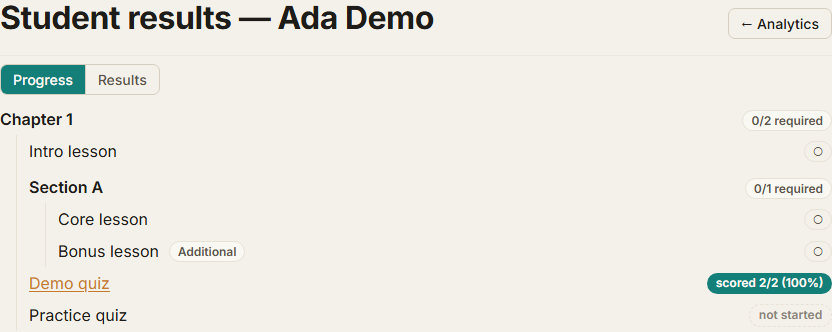
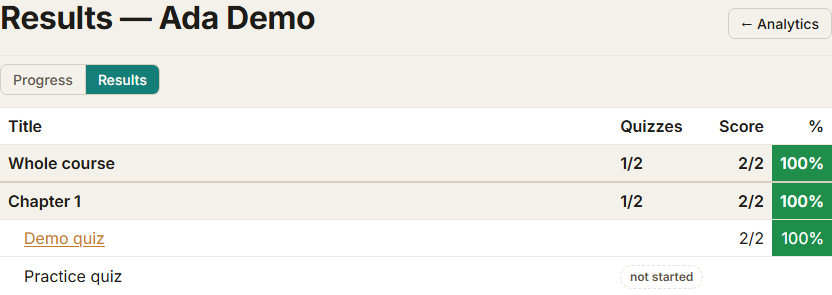
docs(help): results and progress, the table's sums; Results-mode captures
Claude-Session: https://claude.ai/code/session_01H8rDB1pzsmrm9bdn8PwGw2

diff --git a/tests/capture_help_screenshots.py b/tests/capture_help_screenshots.py
@@ -74,10 +74,13 @@ def _u(name, **kwargs):
         return url
     if name == "manage_analytics_student":
         pk = User.objects.get(username=kwargs["username"]).pk
-        return reverse(
+        url = reverse(
             "courses:manage_analytics_student",
             kwargs={"slug": "demo-course", "student_pk": pk},
         )
+        if kwargs.get("mode") == "results":
+            url += "?mode=results"
+        return url
     if name == "manage_review_queue":
         return reverse("courses:manage_review_queue", kwargs={"slug": "demo-course"})
     if name == "manage_review_submission":
@@ -181,8 +184,8 @@ SHOTS = [
     (
         "drill-down",
         "demo_teacher",
-        ("manage_analytics_student", {"username": "demo_s1"}),
-        ".breakdown__tree",
+        ("manage_analytics_student", {"username": "demo_s1", "mode": "results"}),
+        ".results-table",
         "section.manage",
     ),
     (

diff --git a/tests/capture_title_math_screenshots.py b/tests/capture_title_math_screenshots.py
@@ -631,6 +631,18 @@ def test_capture(browser, live_server):
             page.wait_for_selector(".breakdown-unit__title .katex")
             shoot(f"title-math-11-{theme}", page.locator(".breakdown__tree"))
 
+            # Row 11b: the same page in Results mode -- titles in table <th> cells.
+            page.goto(
+                _url(
+                    "courses:manage_analytics_student",
+                    slug=slug,
+                    student_pk=student.pk,
+                )
+                + "?mode=results"
+            )
+            page.wait_for_selector(".results-table__title .katex")
+            shoot(f"title-math-11b-{theme}", page.locator(".results-table-wrap"))
+
             # Row 13b: h1.review-topbar__title on the review-submission page.
             sub = QuizSubmission.objects.get(unit=nodes["quiz_b"], student=student)
             page.goto(

diff --git a/courses/geogebra.py b/courses/geogebra.py
@@ -469,7 +469,7 @@ def fetch_geogebra_dimensions(material_id):
         try:
             exc.close()
         # S110 (try-except-pass) IS enabled and DOES fire here; BLE001 is not.
-        # Precedent for S110 on a handler line: tests/capture_help_screenshots.py:460.
+        # S110 precedent: capture_help_screenshots.py::test_capture_help_screenshots.
         except Exception:  # noqa: BLE001, S110 - closing must never mask the original
             pass
         return _fail(f"HTTP {exc.code}")

diff --git a/docs/help/teacher/drill-down.pl.md b/docs/help/teacher/drill-down.pl.md
@@ -8,7 +8,7 @@ kursie — albo z widoku **Moje grupy i kolekcje**, gdzie każda karta grupy ma
 odnośnik **Analityka** ograniczony do tej grupy. Karta kolekcji ma go
 również, jeśli możesz przeglądać kurs tej kolekcji.
 
-![Wyniki ucznia](static:core/img/help/drill-down.pl.png)
+![Wyniki quizów w kursie](static:core/img/help/drill-down.pl.png)
 
 ## Rozwijanie kolumny
 
@@ -49,17 +49,27 @@ Twoje wybory rozwinięcia i podzbioru podróżują z tobą: przenoszą się prze
 przełącznik Postęp ↔ Wyniki oraz odnośnik eksportu, więc nigdy nie tracisz
 swojego miejsca przy zmianie tego, co mierzy macierz.
 
-## Wyniki ucznia
+## Wyniki i postęp
 
-Kliknij imię i nazwisko ucznia, aby otworzyć stronę jego wyników w bieżącym
-kursie. Otwiera się w tym samym widoku, z którego przyszedłeś w macierzy, a
-przełącznik **Postęp / Wyniki** pod nagłówkiem zmienia go bez powrotu:
+Kliknij imię i nazwisko ucznia, aby otworzyć jego stronę w bieżącym kursie.
+Otwiera się w tym samym widoku, z którego przyszedłeś w macierzy, a nagłówek
+nazywa ten widok i ucznia. Przełącznik **Postęp / Wyniki** pod nagłówkiem
+zmienia widok bez powrotu:
 
 - **Postęp** pokazuje wszystkie lekcje i quizy. Ukończona lekcja ma ✓,
   nieukończona puste ○, a lekcja nieobowiązkowa jest oznaczona jako
-  **Dodatkowa**. Nagłówki rozdziałów pokazują, ile obowiązkowych lekcji ukończono.
-- **Wyniki** pokazuje tylko quizy — z ich stanem lub wynikiem — i rozdziały,
-  które je zawierają.
+  **Dodatkowa**. Nagłówki rozdziałów liczą ukończone lekcje obowiązkowe, np.
+  **lekcje: 1/2**.
+- **Wyniki** to tabela quizów oraz części, rozdziałów i sekcji, które je
+  zawierają. Quiz z wynikiem pokazuje punkty i procent; każdy inny quiz pokazuje
+  swój stan, a quiz czekający na sprawdzenie ma odnośnik do strony sprawdzania.
+  Każdy nagłówek, pod którym jest więcej niż jeden quiz, pokazuje w swoim
+  wierszu ułamek quizów, np. **1/3**, sumę punktów i procent, a **Cały kurs** na
+  górze robi to samo dla całego kursu. Ułamek to liczba quizów, których wynik
+  wliczono do sumy, spośród wszystkich quizów w sekcji, więc quiz czekający na
+  sprawdzenie nie jest jeszcze wliczony. Sumy i kolory procentów pochodzą z
+  macierzy analitycznej, więc wiersz nagłówka zgadza się z komórką tej sekcji w
+  macierzy wyników.
 
 Odnośnik **← Analityka** przywraca dokładnie ten zakres, widok, rozwinięte kolumny i
 wybór uczniów, z którego przyszedłeś.
@@ -72,8 +82,9 @@ klucz tam, gdzie odpowiedź była błędna, punkty i liczbę prób. Pytanie
 wielokrotnego wyboru pokazuje **wszystkie** opcje — co uczeń wybrał i które
 opcje są poprawne; pytanie z kilkoma częściami układa odpowiedzi ucznia i klucz
 w kolumnach. Quiz w toku pokazuje dotychczasowe odpowiedzi. Pytanie czekające
-na sprawdzenie prowadzi prosto do strony sprawdzania. Odnośnik **← Wyniki ucznia**
-wraca z niezmienionym widokiem analityki.
+na sprawdzenie prowadzi prosto do strony sprawdzania. Odnośnik **← Wyniki** lub
+**← Postęp** (nazywa widok, z którego przyszedłeś) wraca z niezmienionym widokiem
+analityki.
 
 ## Powiązane tematy
 

diff --git a/docs/help/teacher/drill-down.md b/docs/help/teacher/drill-down.md
@@ -46,17 +46,27 @@ Your expand and subset choices travel with you: they round-trip across the
 Progress ↔ Results toggle and the Export link, so you never lose your place
 when switching what the matrix measures.
 
-## Student results
+## Results and progress
 
-Click a student's name to open their results page for the current course. It
-opens in the same view as the matrix you came from, and a **Progress / Results**
-switch under the heading changes it without going back:
+Click a student's name to open their page for the current course. It opens in
+the same view as the matrix you came from, and the heading names that view and
+the student. A **Progress / Results** switch under the heading changes the view
+without going back:
 
 - **Progress** lists every lesson and quiz. A finished lesson carries a ✓, an
   unfinished one an empty ○, and a lesson that is not required is tagged
-  **Additional**. Chapter headings show how many required lessons are done.
-- **Results** lists only the quizzes — with their status or score — and the
-  chapters that contain them.
+  **Additional**. Chapter headings count the required lessons done, as
+  **lessons: 1/2**.
+- **Results** is a table of the quizzes and of the parts, chapters and sections
+  that contain them. A quiz with a score shows its marks and percentage; any
+  other quiz shows its status, and one awaiting review links to the review page.
+  Every heading that holds more than one quiz shows on its own row a quiz
+  fraction such as **1/3**, the summed marks and the percentage, and **Whole
+  course** at the top does the same for the whole course. The fraction counts
+  the quizzes whose score is included in the sum out of all the quizzes in that
+  section, so a quiz still awaiting review is not included yet. The sums and the
+  colours of the percentages are the analytics matrix's own, so a heading row
+  matches that section's cell in the Results matrix.
 
 The **← Analytics** link restores the exact scope, mode, expanded columns and
 subset you came from, so you can dip into one student and pop straight back to
@@ -71,8 +81,8 @@ A choice question lists **every** option, marking what the student chose and
 which options are correct; a question with several parts lines the student's
 answers and the key up in columns. A quiz still in progress shows the answers
 given so far. A question waiting for your review links straight to the review
-page. The **← Student results** link takes you back with your analytics view
-unchanged.
+page. The **← Results** or **← Progress** link (it names the view you came
+from) takes you back with your analytics view unchanged.
 
 ## Related topics
 
